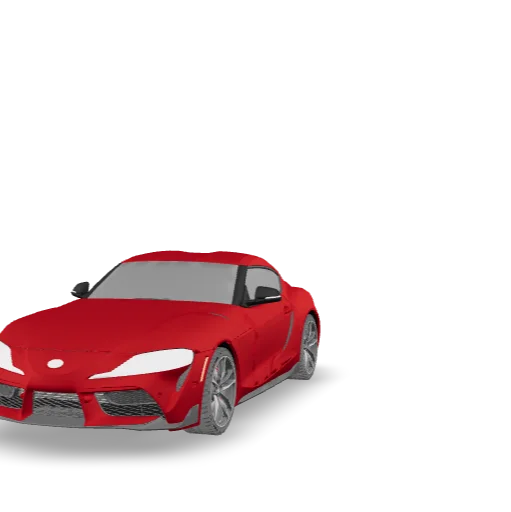
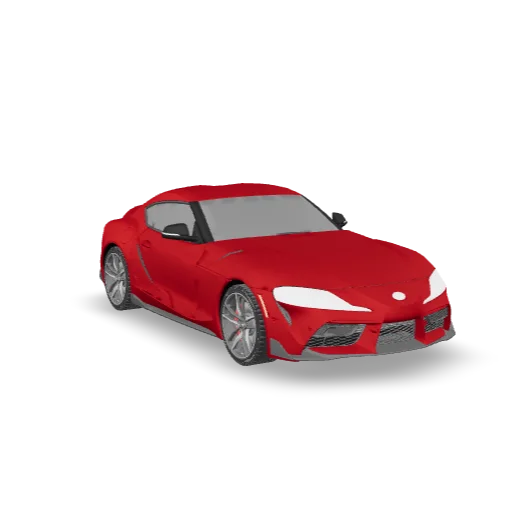
poster and initial camera update

diff --git a/index.html b/index.html
@@ -11,7 +11,7 @@
   </head>
   <body>
     <!-- <model-viewer> HTML element -->
-    <model-viewer src="betterv1.glb" ar ar-modes="webxr scene-viewer quick-look" camera-controls poster="poster.webp" shadow-intensity="1" min-field-of-view="30deg" camera-orbit="-521.5deg 87.4deg auto" ar-scale="auto">
+    <model-viewer src="betterv1.glb" ar ar-modes="webxr scene-viewer quick-look" camera-controls poster="poster.webp"   ar-scale="auto" shadow-intensity="1" camera-orbit="-211.5deg 81.17deg auto" auto-rotate>
       <div class="progress-bar hide" slot="progress-bar">
           <div class="update-bar"></div>
       </div>
